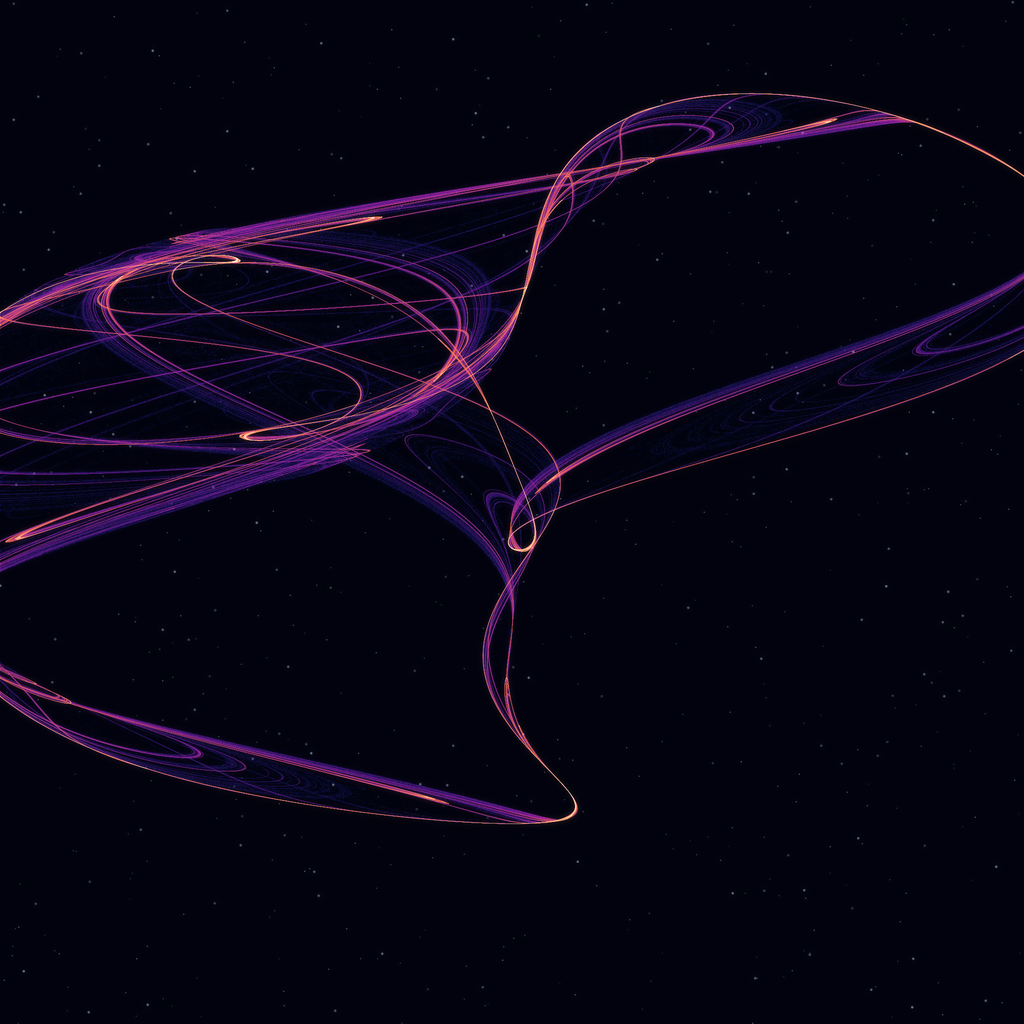
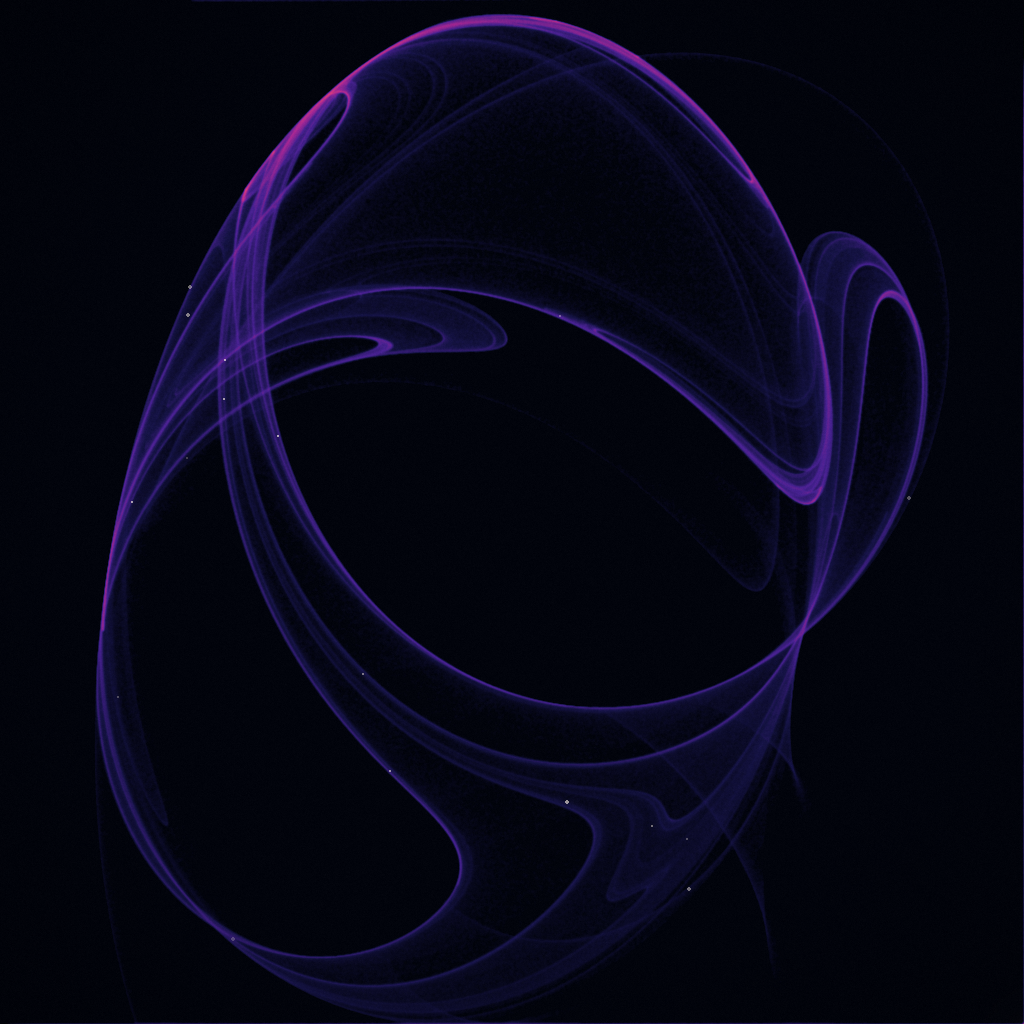
New entry: Nebula Silk attractor with bloom, chromatic glow, heat tint

diff --git a/generate.py b/generate.py
@@ -1,66 +1,125 @@
-# coolest-art-01 entry v4: density-colored strange attractor
+# coolest-art-01 entry — "Nebula Silk": De Jong strange attractor, log-density,
+# auto-centered, vertical heat tint, bloom with chromatic glow, vignette, grain.
+# Deterministic (fixed seeds), runs offline, writes entry.png next to this file.
 import math, os
 import numpy as np
-from PIL import Image, ImageFilter, ImageChops
+from PIL import Image, ImageFilter, ImageDraw
 
-W = H = 2048
-a, b, c, d = 1.641, 1.902, 0.316, 1.525
+W = H = 1024
+SEED = 20261113
+a, b, c, d = -2.24, 0.43, -0.65, -2.43
 
-WALKERS = 4000
-STEPS = 6000  # 24M points
-xs = np.random.uniform(-2, 2, WALKERS)
-ys = np.random.uniform(-2, 2, WALKERS)
+# ---------- pre-pass: find stable bounds ----------
+rp = np.random.RandomState(SEED)
+N0 = 20000
+x0 = rp.uniform(-2, 2, N0); y0 = rp.uniform(-2, 2, N0)
+for _ in range(120):
+    x0, y0 = np.sin(a * y0) - np.cos(b * x0), np.sin(c * x0) - np.cos(d * y0)
+ang = math.radians(-8)
+ca, sa = math.cos(ang), math.sin(ang)
+xr = x0 * ca - y0 * sa; yr = x0 * sa + y0 * ca
+xr_lo, xr_hi = np.percentile(xr, [0.5, 99.5])
+yr_lo, yr_hi = np.percentile(yr, [0.5, 99.5])
+cxr, cyr = (xr_lo + xr_hi) / 2, (yr_lo + yr_hi) / 2
+scale = max(xr_hi - xr_lo, yr_hi - yr_lo) / 2 * 1.04
 
-dens = np.zeros((H, W), dtype=np.float32)
-cx, cy = W * 0.5, H * 0.52
-scale = W * 0.30
+def to_px(x, y):
+    xr = x * ca - y * sa - cxr
+    yr = x * sa + y * ca - cyr
+    px = (xr / scale * 0.5 + 0.5) * (W - 1)
+    py = (1.0 - (yr / scale * 0.5 + 0.5)) * (H - 1)
+    return px, py
 
-for s in range(STEPS):
-    nx = np.sin(a * ys) - np.cos(b * xs)
-    ny = np.sin(c * xs) - np.cos(d * ys)
-    xs, ys = nx, ny
-    if s < 20:
+# ---------- accumulate ----------
+rs = np.random.RandomState(SEED)
+N = 1_600_000
+IT = 9
+x = rs.uniform(-2, 2, N); y = rs.uniform(-2, 2, N)
+acc = np.zeros((H, W), dtype=np.float64)
+ynorm = None
+for it in range(IT):
+    px, py = to_px(x, y)
+    ix = np.clip(px.astype(np.int64), 0, W - 1)
+    iy = np.clip(py.astype(np.int64), 0, H - 1)
+    fx = px - np.floor(px); fy = py - np.floor(py)
+    for ox in (0, 1):
+        for oy in (0, 1):
+            wgt = (fx if ox else 1 - fx) * (fy if oy else 1 - fy)
+            np.add.at(acc, (np.clip(iy + oy, 0, H - 1), np.clip(ix + ox, 0, W - 1)), wgt)
+    xn = np.sin(a * y) - np.cos(b * x)
+    yn = np.sin(c * x) - np.cos(d * y)
+    x, y = xn, yn
+
+hmax = acc.max()
+# light smoothing kills bilinear-splat speckle
+acc_img = Image.fromarray((np.log1p(acc) / np.log1p(hmax) * 255).astype(np.uint8))
+acc_img = acc_img.filter(ImageFilter.GaussianBlur(0.9))
+v = np.asarray(acc_img, dtype=np.float64) / 255
+v = np.clip(v, 0, 1) ** 0.85
+# kill the uniform noise floor so empty space stays deep black
+v = np.clip((v - 0.22) / 0.78, 0, 1)
+
+# ---------- palette with vertical heat: top cool indigo, bottom ember ----------
+stops = [
+    (0.00, (2, 4, 12)),
+    (0.20, (22, 20, 70)),
+    (0.38, (72, 34, 146)),
+    (0.54, (162, 40, 150)),
+    (0.68, (232, 66, 116)),
+    (0.80, (255, 124, 66)),
+    (0.90, (255, 190, 110)),
+    (1.00, (255, 246, 226)),
+]
+def palette(t):
+    t = np.clip(t, 0, 1)
+    out = np.zeros(t.shape + (3,))
+    for k in range(len(stops) - 1):
+        t0, c0 = stops[k]
+        t1, c1 = stops[k + 1]
+        m = (t >= t0) & (t <= t1)
+        f = np.where(t1 > t0, (t - t0) / (t1 - t0), 0)
+        for ch in range(3):
+            out[:, :, ch] = np.where(m, c0[ch] + (c1[ch] - c0[ch]) * f, out[:, :, ch])
+    return out
+
+# vertical heat: bottom hotter (multiplicative keeps background uniform)
+ys_g, xs_g = np.mgrid[0:H, 0:W]
+img = palette(np.clip(v * (0.80 + 0.55 * (1 - ys_g / H)), 0, 1))
+
+# ---------- bloom ----------
+bright = np.clip((v - 0.50) / 0.50, 0, 1) ** 1.5
+bl = Image.fromarray((bright * 255).astype(np.uint8))
+b1 = np.asarray(bl.filter(ImageFilter.GaussianBlur(5)), dtype=np.float64) / 255
+b2 = np.asarray(bl.filter(ImageFilter.GaussianBlur(28)), dtype=np.float64) / 255
+glow = (b1 * 0.55 + b2 * 0.45)[:, :, None]
+glow = np.repeat(glow, 3, axis=2)
+# chromatic aberration without wrap artifacts
+r_g = glow[:, :, 0].copy(); b_g = glow[:, :, 2].copy()
+r_g[:, :-3] = r_g[:, 3:];  r_g[:, -3:] = r_g[:, -4:-3]
+b_g[:, 3:] = b_g[:, :-3];  b_g[:, :3] = b_g[:, 3:4]
+glow2 = np.stack([r_g, glow[:, :, 1], b_g], axis=2)
+img = 255 - (255 - img) * (255 - np.clip(glow2 * 255 * 1.25, 0, 255)) / 255
+
+# ---------- stars ----------
+rs2 = np.random.RandomState(SEED + 1)
+starm = Image.fromarray(img.astype(np.uint8))
+sd = ImageDraw.Draw(starm, 'RGBA')
+for _ in range(150):
+    sx = rs2.randint(0, W); sy = rs2.randint(0, H)
+    if v[sy, sx] < 0.08:
         continue
-    px = (cx + xs * scale).astype(np.int64)
-    py = (cy + ys * scale * 0.9).astype(np.int64)
-    ok = (px >= 0) & (px < W) & (py >= 0) & (py < H)
-    np.add.at(dens, (py[ok], px[ok]), 1.0)
+    r = rs2.uniform(0.4, 1.3)
+    al = int(rs2.uniform(50, 170))
+    sd.ellipse([sx - r, sy - r, sx + r, sy + r], fill=(255, 244, 230, al))
+img = np.asarray(starm, dtype=np.float64)
 
-# --- density -> color: multi-stop gradient (near-black -> deep blue -> violet -> magenta -> orange -> white)
-dmax = np.log1p(dens)
-dmax /= (dmax.max() + 1e-9)
-t = np.clip(dmax, 0, 1) ** 0.62
+# ---------- vignette + light grain ----------
+rv = np.sqrt(((xs_g - 0.5 * W) / (0.72 * W)) ** 2 + ((ys_g - 0.5 * H) / (0.72 * H)) ** 2)
+img *= np.clip(1 - np.clip(rv - 0.62, 0, 1) * 0.6, 0, 1)[:, :, None]
+rng = np.random.RandomState(SEED + 2)
+img += rng.normal(0, 1.0, (H, W, 1))
 
-stops_t = [0.00, 0.18, 0.38, 0.55, 0.75, 0.90, 1.00]
-stops_r = [3, 10, 70, 190, 255, 255, 255]
-stops_g = [5, 25, 30, 40, 110, 210, 255]
-stops_b = [20, 110, 160, 200, 60, 160, 255]
-r = np.interp(t, stops_t, stops_r)
-g = np.interp(t, stops_t, stops_g)
-bch = np.interp(t, stops_t, stops_b)
-
-img = np.dstack([r, g, bch]).astype(np.uint8)
-out = Image.fromarray(img, 'RGB')
-
-# background stars
-st = Image.new('RGB', out.size, (1, 2, 8))
-sd = ImageDraw = None
-import random
-from PIL import ImageDraw
-sd = ImageDraw.Draw(st)
-random.seed(5)
-for _ in range(700):
-    x, y = random.randint(0, W - 1), random.randint(0, H - 1)
-    rr = random.choice([1, 1, 2])
-    aa = random.randint(30, 130)
-    sd.ellipse([x - rr, y - rr, x + rr, y + rr], fill=(int(aa * 0.8), int(aa * 0.85), aa))
-mask = out.convert('L').point(lambda p: min(255, int((p / 255) ** 0.5 * 255)))
-final = Image.composite(out, st, mask)
-
-# bloom
-bloom = final.filter(ImageFilter.GaussianBlur(5))
-final = ImageChops.add(final, bloom.point(lambda p: int(p * 0.35)))
-final = final.resize((1024, 1024), Image.LANCZOS)
-p = os.path.join(os.path.dirname(os.path.abspath(__file__)), 'entry.png')
-final.save(p)
-print('saved v4', p)
+out = Image.fromarray(np.clip(img, 0, 255).astype(np.uint8))
+outp = os.path.join(os.path.dirname(os.path.abspath(__file__)), 'entry.png')
+out.save(outp, optimize=True, compress_level=9)
+print('saved', outp)

diff --git a/main.py b/main.py
@@ -3,10 +3,12 @@ import shutil
 
 # make.fun entry — coolest-art-01 ("Make the coolest art")
 # Writes the competition's entry image to /output/entry.png.
-# The image is bundled in this repository (entry.png) and is a
-# deterministic render: a De Jong strange attractor colored by
-# point density (near-black → deep blue → violet → magenta → orange → white),
-# 4000 walkers × 6000 steps ≈ 24M points, numpy + PIL.
+# The image is bundled in this repository (entry.png): "Nebula Silk",
+# a De Jong strange attractor rendered as log-density point clouds
+# (14.4M points), auto-centered, colored through a deep-space palette
+# (black → indigo → violet → magenta → ember → white) with a vertical
+# heat tint, bloom with chromatic glow, star field, vignette and fine
+# grain. numpy + PIL, fully deterministic (fixed seeds), no network.
 # generate.py holds the full generator for reference.
 
 here = os.path.dirname(os.path.abspath(__file__))

diff --git a/README.md b/README.md
@@ -2,10 +2,12 @@
 
 Entry for make.fun's **Make the coolest art** competition.
 
-A deterministic De Jong strange attractor rendered as a luminous
-point cloud and colored by point density (near-black → deep blue →
-violet → magenta → orange → white). 4,000 walkers × 6,000 steps ≈
-24 million plotted points, drawn with numpy + PIL.
+**"Nebula Silk"** — a De Jong strange attractor rendered as a
+luminous log-density point cloud (14.4 million plotted points),
+auto-centered and colored through a deep-space palette
+(black → indigo → violet → magenta → ember → white) with a
+vertical heat tint, bloom with chromatic glow, a faint star field,
+vignette and fine grain. Fully deterministic (fixed seeds), numpy + PIL.
 
 `main.py` writes the bundled image to `/output/entry.png`;
 `generate.py` is the full generator for reference.
